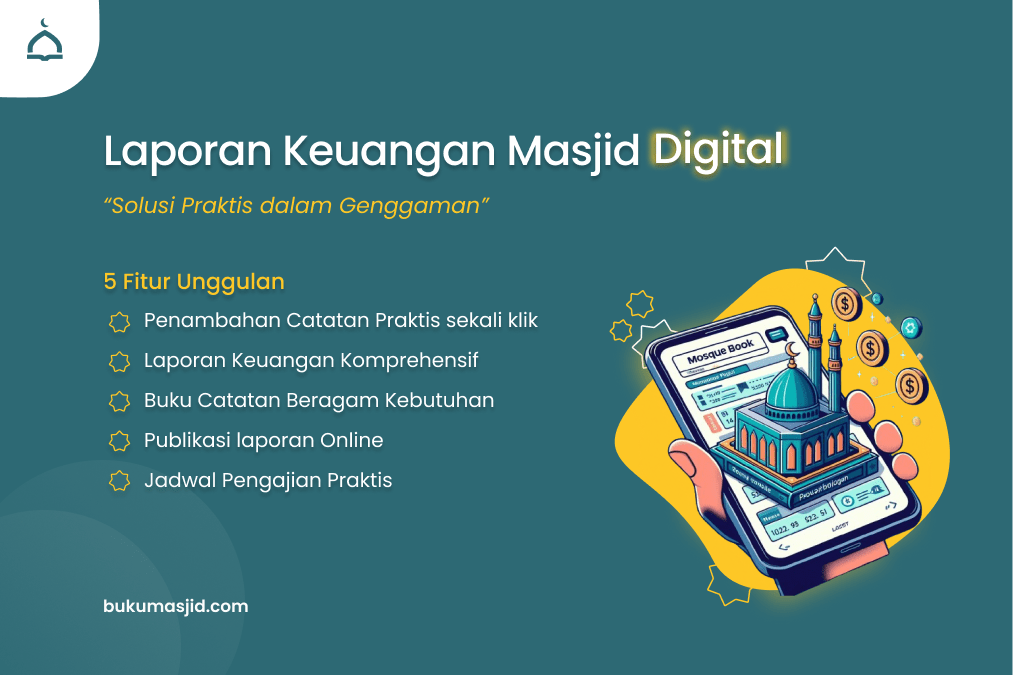
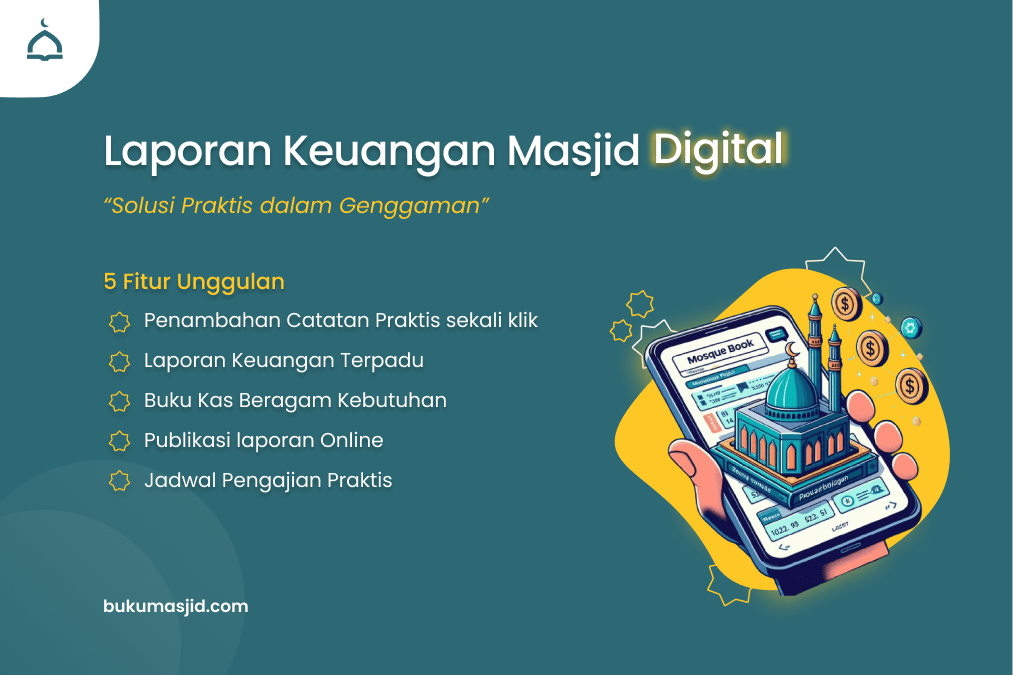
Changes on Article 1 & 2

Changed region(s): [[0.1836, 0.5289, 0.4896, 0.6222]]

diff --git a/content/id/blog/2024-01-19-transformasi-sukses-masjid-ar-rahman.md b/content/id/blog/2024-01-19-transformasi-sukses-masjid-ar-rahman.md
@@ -21,29 +21,29 @@ Masjid Ar Rahman terletak di jl. Kampung Melayu Banjarmasin menjadi tempat lebih
 
 #### Permasalahan yang dihadapi Bendahara Masjid
 
-Sebelum menggunakan sistem BukuMasjid, Surawardi merasakan kesulitan dalam mencatat setiap pemasukan dan pengeluaran masjid dengan rapi terutama saat membuat laporan bulanan. Aktivitas transaksi yang cukup tinggi, pemasukan kotak infaq harian hingga pengajian dan pengeluaran operasional, membuat beliau cukup kewalahan. Karena sehari-hari beliau juga bekerja sebagai akuntan pajak di sebuah perusahaan.
+Sebelum menggunakan sistem BukuMasjid, Surawardi merasakan kesulitan dalam mencatat setiap pemasukan dan pengeluaran masjid dengan rapi terutama saat membuat laporan bulanan. **Aktivitas transaksi yang cukup tinggi, pemasukan kotak infaq harian hingga pengajian dan pengeluaran operasional, membuat beliau cukup kewalahan**. Karena sehari-hari beliau juga bekerja sebagai akuntan pajak di sebuah perusahaan.
 
-Kesulitan beliau berpuncak ketika harus begadang untuk membuat laporan kas setiap awal bulan, memastikan semua pencatatan transaksi tidak ada yang terlewat. Dan keesokan harinya beliau tetap harus berangkat kerja seperti biasa.
+Kesulitan beliau berpuncak ketika **harus begadang untuk membuat laporan kas setiap awal bulan**, memastikan semua pencatatan transaksi tidak ada yang terlewat. Dan keesokan harinya beliau tetap harus berangkat kerja seperti biasa.
 
 Berangkat dari keresahan dan kesulitan pengelolaan keuangan ini, Surawardi pada akhirnya menggunakan Buku Masjid untuk mempermudah pengelolaan keuangan masjid Ar Rahman.
 
-Bulan pertama menggunakan sistem BukuMasjid, Surawardi mengalami perubahan signifikan dalam manajemen keuangan masjid. Beliau menceritakan bagaimana mudahnya mencatat pemasukan dan pengeluaran kas masjid cukup melalui handphone saja. "Ketika sedang minum teh di warung pun, Saya bisa input pemasukan lewat handphone. Cukup terima laporan dari wakil bendahara melalui whatsapp langsung saya input ke BukuMasjid.
+Bulan pertama menggunakan sistem BukuMasjid, Surawardi mengalami perubahan signifikan dalam manajemen keuangan masjid. Beliau menceritakan bagaimana **mudahnya mencatat pemasukan dan pengeluaran kas masjid cukup melalui handphone saja**. "Ketika sedang minum teh di warung pun, Saya bisa input pemasukan lewat handphone. Cukup terima laporan dari wakil bendahara melalui whatsapp langsung saya input ke BukuMasjid" diterangkan Surawardi.
 
 #### Manfaat Setelah Menggunakan BukuMasjid
 
-Selama empat bulan terakhir, Masjid Ar Rahman menjadi pengguna aktif BukuMasjid. Surawardi merasakan berbagai kemudahan, termasuk struktur pencatatan keuangan yang lebih terorganisir, kemudahan input melalui ponsel, pembuatan otomatis laporan keuangan bulanan dalam format PDF, dan pelacakan pengeluaran berlebihan melalui daftar pengeluaran keseluruhan.
+Selama empat bulan terakhir, Masjid Ar Rahman menjadi pengguna aktif BukuMasjid. Surawardi merasakan berbagai kemudahan, termasuk struktur pencatatan keuangan yang lebih terorganisir, kemudahan input melalui ponsel, **pembuatan otomatis laporan keuangan bulanan dalam format PDF**, dan pelacakan pengeluaran berlebihan melalui daftar pengeluaran keseluruhan.
 
-Surawardi cukup optimis bahwa dengan menggunakan sistem BukuMasjid, pengelola masjid tidak perlu khawatir lagi dengan beban dan pekerjaan yang rumit. Beliau mengapresiasi inovasi tim BukuMasjid dalam menciptakan solusi digital untuk pencatatan keuangan masjid.
+Surawardi cukup optimis bahwa dengan menggunakan sistem BukuMasjid, Pengelola Masjid tidak perlu khawatir lagi dengan beban dan pekerjaan yang rumit. Beliau mengapresiasi inovasi tim BukuMasjid dalam menciptakan solusi digital untuk pencatatan keuangan masjid.
 
-"Sistem BukuMasjid sangat membantu saya ketika melaksanakan tugas sebagai Bendahara Masjid. Dengan sistem ini, saya dapat menjalankan aktivitas utama saya sebagai pegawai akuntan pajak tanpa terganggu. Saya berharap bahwa ke depannya, kehadiran sistem BukuMasjid akan memberikan kemudahan kepada semua pengurus Masjid. Mereka tidak perlu lagi khawatir dengan beban besar dan kompleksitas pekerjaan yang harus dihadapi, karena pencatatan keuangan Masjid yang rumit telah berhasil digantikan dengan pencatatan laporan keuangan secara digital yang mudah, ini sebuah inovasi yang bagus dari tim BukuMasjid."
+"Sistem BukuMasjid sangat membantu saya ketika melaksanakan tugas sebagai Bendahara Masjid. Dengan sistem ini, saya dapat menjalankan aktivitas utama saya sebagai pegawai akuntan pajak tanpa terganggu. Saya berharap bahwa ke depannya, kehadiran sistem BukuMasjid akan memberikan kemudahan kepada semua pengurus Masjid. Mereka tidak perlu lagi khawatir dengan beban besar dan kompleksitas pekerjaan yang harus dihadapi, karena **pencatatan keuangan Masjid yang rumit telah berhasil digantikan dengan pencatatan laporan keuangan secara digital yang mudah**, ini sebuah inovasi yang bagus dari tim BukuMasjid" diungkapkan Surawardi.
 
 #### Rencana Pengembangan Mendatang
-Tim BukuMasjid saat ini tengah mempersiapkan berbagai fitur menyambut Bulan Ramadhan, Idul Fitri dan Idul Adha. Dalam waktu dekat, BukuMasjid akan menyediakan fitur jadwal donatur buka puasa ramadhan, pencatatan zakat fitrah dan fidyah, lengkap dengan pendisitribusiannya. Selain itu, akan tersedia juga fitur pencatatan qurban beserta otomatisasi pembuatan kwitansi pembayaran.
+Tim BukuMasjid saat ini tengah **mempersiapkan berbagai fitur menyambut Bulan Ramadhan, Idul Fitri dan Idul Adha**. Dalam waktu dekat, BukuMasjid akan menyediakan fitur jadwal donatur buka puasa ramadhan, pencatatan zakat fitrah dan fidyah, lengkap dengan pendisitribusiannya. Selain itu, akan tersedia juga fitur pencatatan qurban beserta otomatisasi pembuatan kwitansi pembayaran.
 
 ###### Ayo Buktikan! Kemudahan Pengelolaan 3X Lebih Cepat dan Efisien
 
 Mengalami keresahan yang serupa dengan Pak Surawardi? Atau merasa bahwa Laporan Keuangan Masjid Anda belum terstruktur dengan baik? BukuMasjid dapat memberikan kemudahan dan efisiensi pencatatan laporan keuangan masjid Anda hingga 3x lipat
 
-Hubungi kami untuk menggunakan sistem BukuMasjid, gratis 2 bulan penyesuaian bagi seluruh pengguna baru. Kontak kami melalui Whatsapp.  <a href="https://wa.me/{{< whatsapp_number >}}" target="_blank">wa.me/{{< whatsapp_number >}}</a>
+Hubungi kami untuk menggunakan sistem BukuMasjid, **gratis 2 bulan penyesuaian bagi seluruh pengguna baru**. Kontak kami melalui Whatsapp.  <a href="https://wa.me/{{< whatsapp_number >}}" target="_blank">wa.me/{{< whatsapp_number >}}</a>
 
 Kelola Dengan Mudah, Catat Lebih Cepat: BukuMasjid, Inovasi Keuangan Digital Masjid.

diff --git a/content/id/blog/2024-01-09-laporan-keuangan-masjid-digital.md b/content/id/blog/2024-01-09-laporan-keuangan-masjid-digital.md
@@ -20,17 +20,17 @@ Dalam era digital, pengelolaan keuangan masjid semakin krusial. BukuMasjid hadir
 
 Dari pengalaman Surawardi, Bendahara Masjid Ar Rahman, Banjarmasin, tergambar betapa **rumitnya pencatatan laporan keuangan masjid secara manual**. Kendala seperti waktu yang terbuang banyak setiap harinya, keharusan datang ke masjid untuk mencatat pemasukan dan pengeluaran, serta penggunaan banyak buku menciptakan ketidakefisienan. Menginspirasi dari kesulitan yang dihadapi, kami, Tim Pendiri BukuMasjid, menyajikan solusi modern melalui digitalisasi pengelolaan laporan keuangan masjid.
 
-Fitur-fitur yang tersedia di BukuMasjid dapat memberikan banyak kemudahan dan menjadi revolusioner dalam proses pencatatan **laporan keuangan masjid modern**. BukuMasjid dilengkapi dengan 5 fitur unggulan, diantara lain:
+Fitur-fitur yang tersedia di BukuMasjid dapat memberikan banyak kemudahan dan menjadi revolusioner dalam proses pencatatan laporan keuangan masjid modern. BukuMasjid dilengkapi dengan 5 fitur unggulan, diantara lain:
 
 ### 5 Fitur Unggulan Buku Masjid
 
 ##### 1. Penambahan Catatan Praktis sekali klik
 Input Transaksi melalui **satu tombol**, mempermudah bendahara masjid/mushalla untuk memasukkan data pemasukan dan pengeluaran keuangan sesuai dengan kategori/kelompok transaksi.
 
-##### 2. Laporan Keuangan Komprehensif
+##### 2. Laporan Keuangan Terpadu
 Keuangan Terkelola dengan Sempurna: **Laporan Bulanan, Per-Kategori, dan Per-Pekan** menyajikan informasi lengkap tentang saldo, pemasukan, pengeluaran, serta sisa saldo, memudahkan pemantauan kas masjid dengan efisien.
 
-##### 3. Buku Catatan Beragam Kebutuhan
+##### 3. Buku Kas Beragam Kebutuhan
 Pencatatan Keuangan Beragam Kegiatan: Mencatat setiap kegiatan secara terpisah dalam buku catatan keuangan, mulai dari **operasional harian masjid, infaq buka puasa senin/kamis,** hingga **kegiatan qurban** dan lainnya. Dapat disesuaikan sesuai kebutuhan masjid Anda.
 
 ##### 4. Publikasi laporan Online
@@ -39,7 +39,7 @@ Digitalisasi Tampilan Laporan Kas Masjid/Mushalla! Dengan sistem ini, laporan ke
 ##### 5. Jadwal Pengajian Praktis
 Susun dan Bagikan Jadwal Pengajian: Input dan edit jadwal pengajian dengan mudah, serta publikasikan **Jadwal Khatib, Pengajian Umum & Pengajian Muslimah** untuk kemudahan akses informasi Jamaah.
 
-Untuk jangka panjang, Tim BukuMasjid akan menambah berbagai fitur untuk memudahkan Bendahara Masjid untuk melakukan **Analisa dan Perencanaan terhadap Manajemen Keuangan Masjid**. Sehingga Bendahara Masjid dapat membuat keputusan yang tepat dalam perencanaan keuangan masjid melalui analisa mendalam terkait Pemasukan dan Pengeluaran Masjid.
+Untuk jangka panjang, Tim BukuMasjid akan menambah berbagai fitur untuk memudahkan Bendahara Masjid untuk melakukan Analisa dan Perencanaan terhadap Manajemen Keuangan Masjid. Sehingga Bendahara Masjid dapat membuat keputusan yang tepat dalam perencanaan keuangan masjid melalui analisa mendalam terkait Pemasukan dan Pengeluaran Masjid.
 
 Hubungi kami untuk menggunakan sistem BukuMasjid, **Gratis 2 bulan penyesuaian bagi seluruh pengguna baru**. Kontak kami melalui Whatsapp.  <a href="https://wa.me/{{< whatsapp_number >}}" target="_blank">wa.me/{{< whatsapp_number >}}</a>
 
